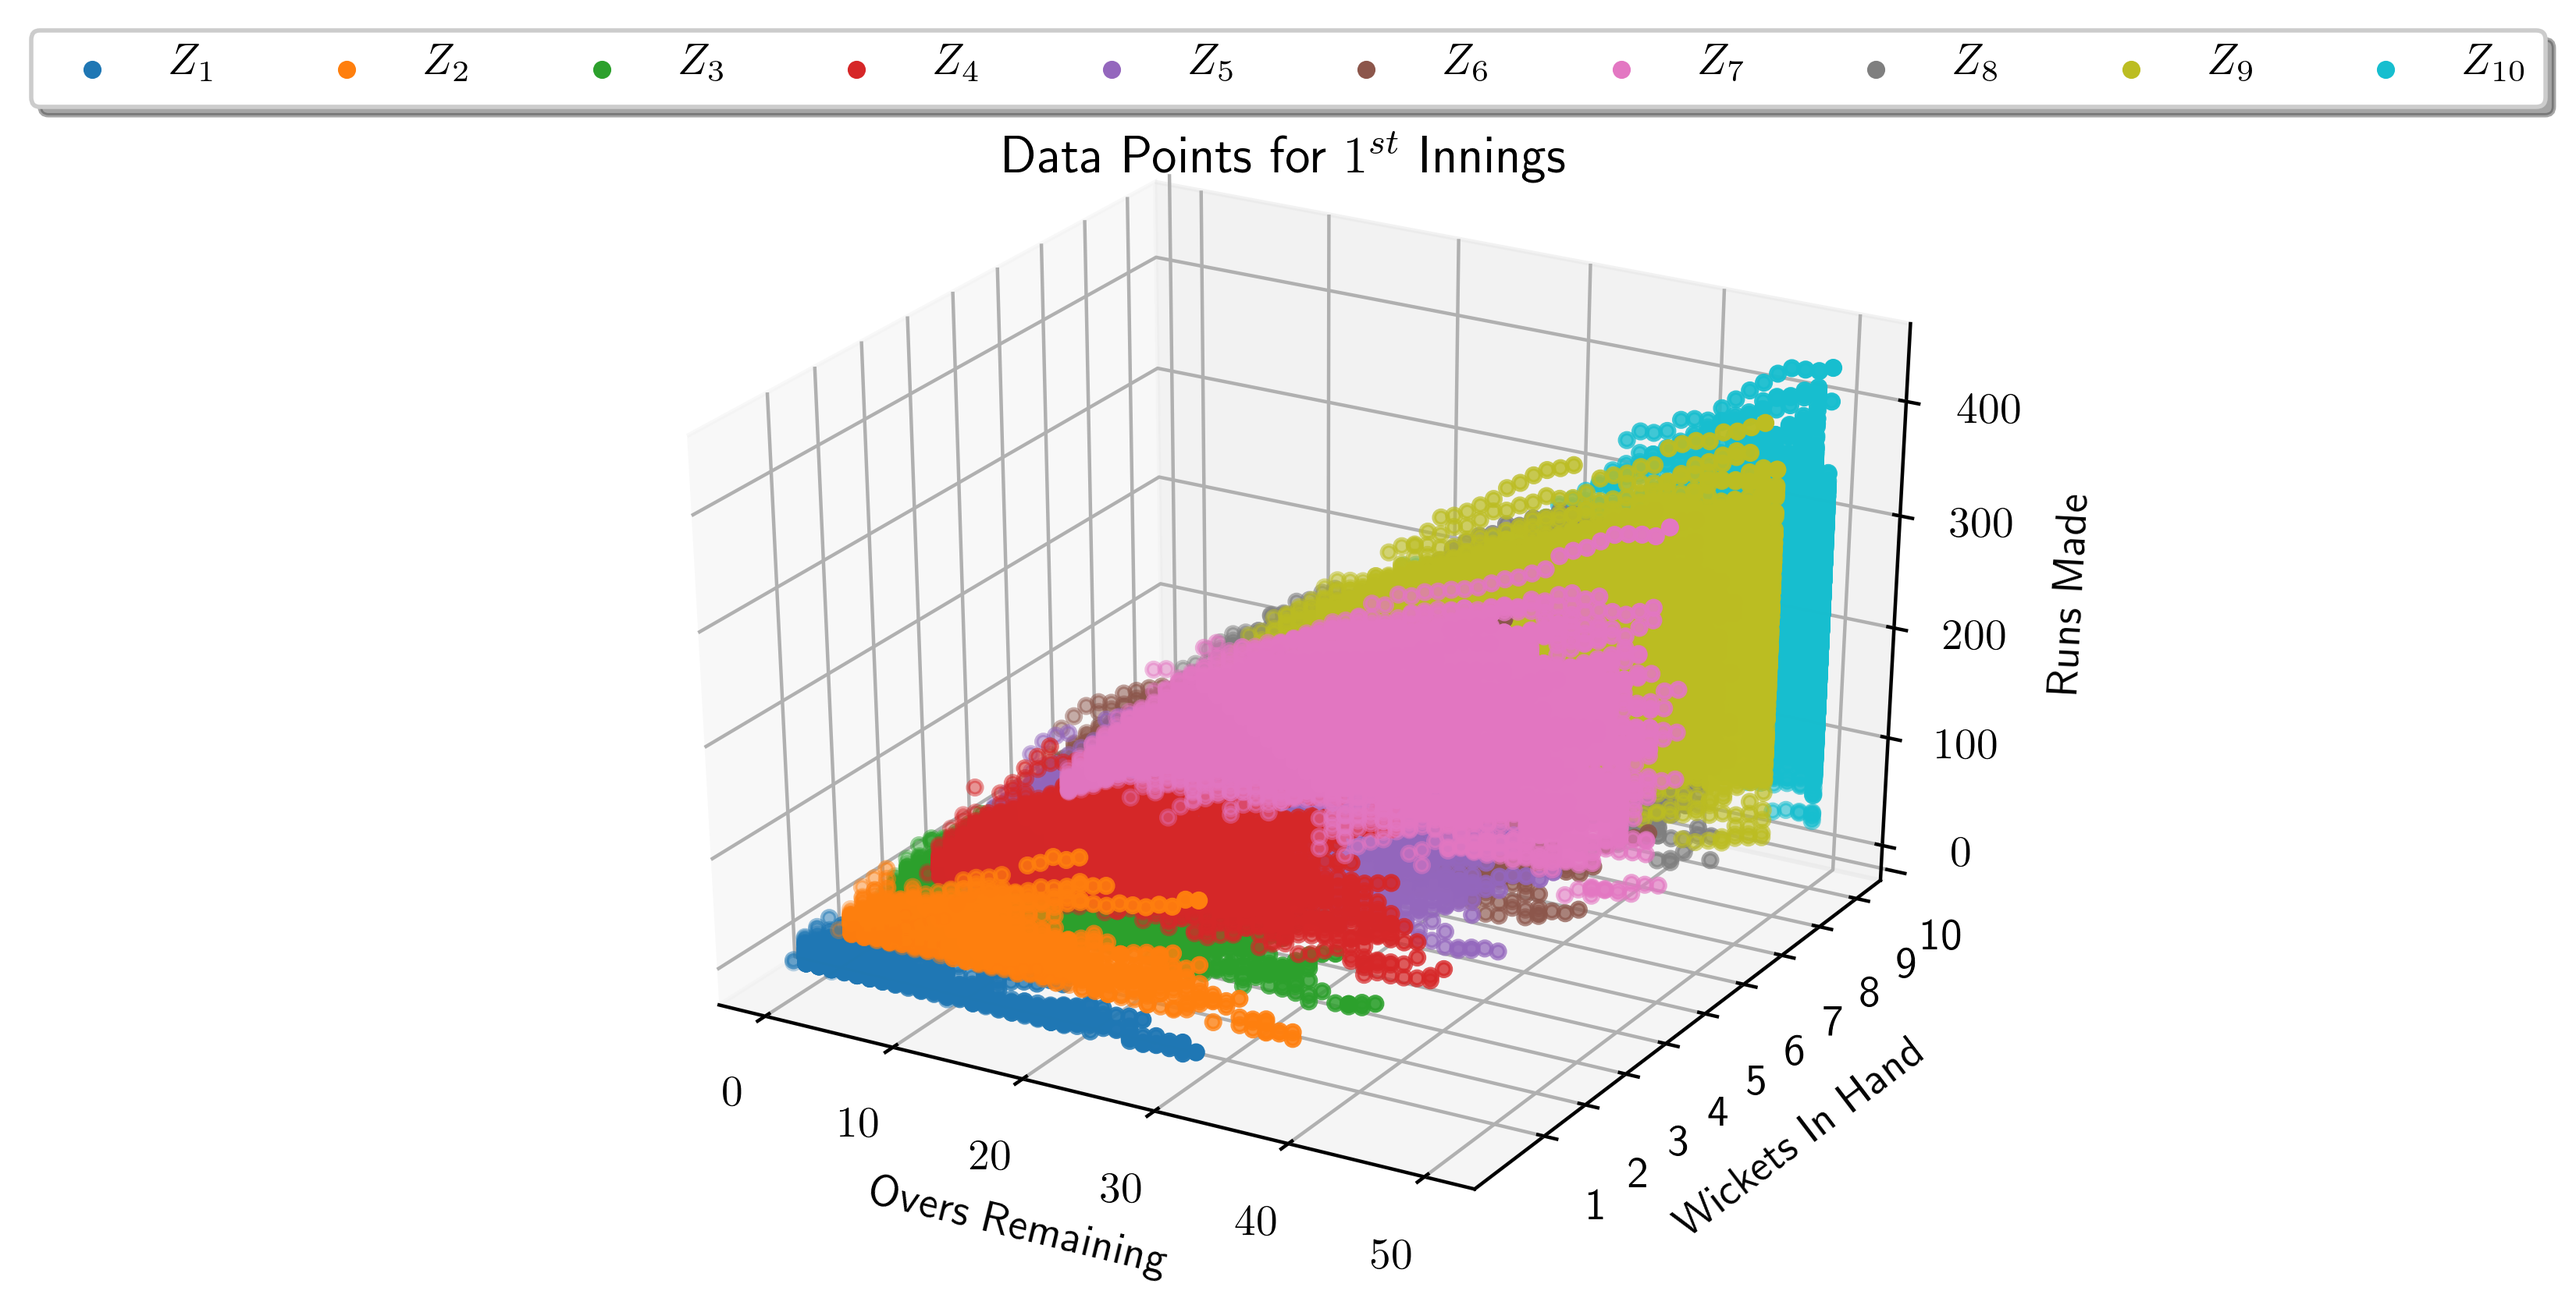
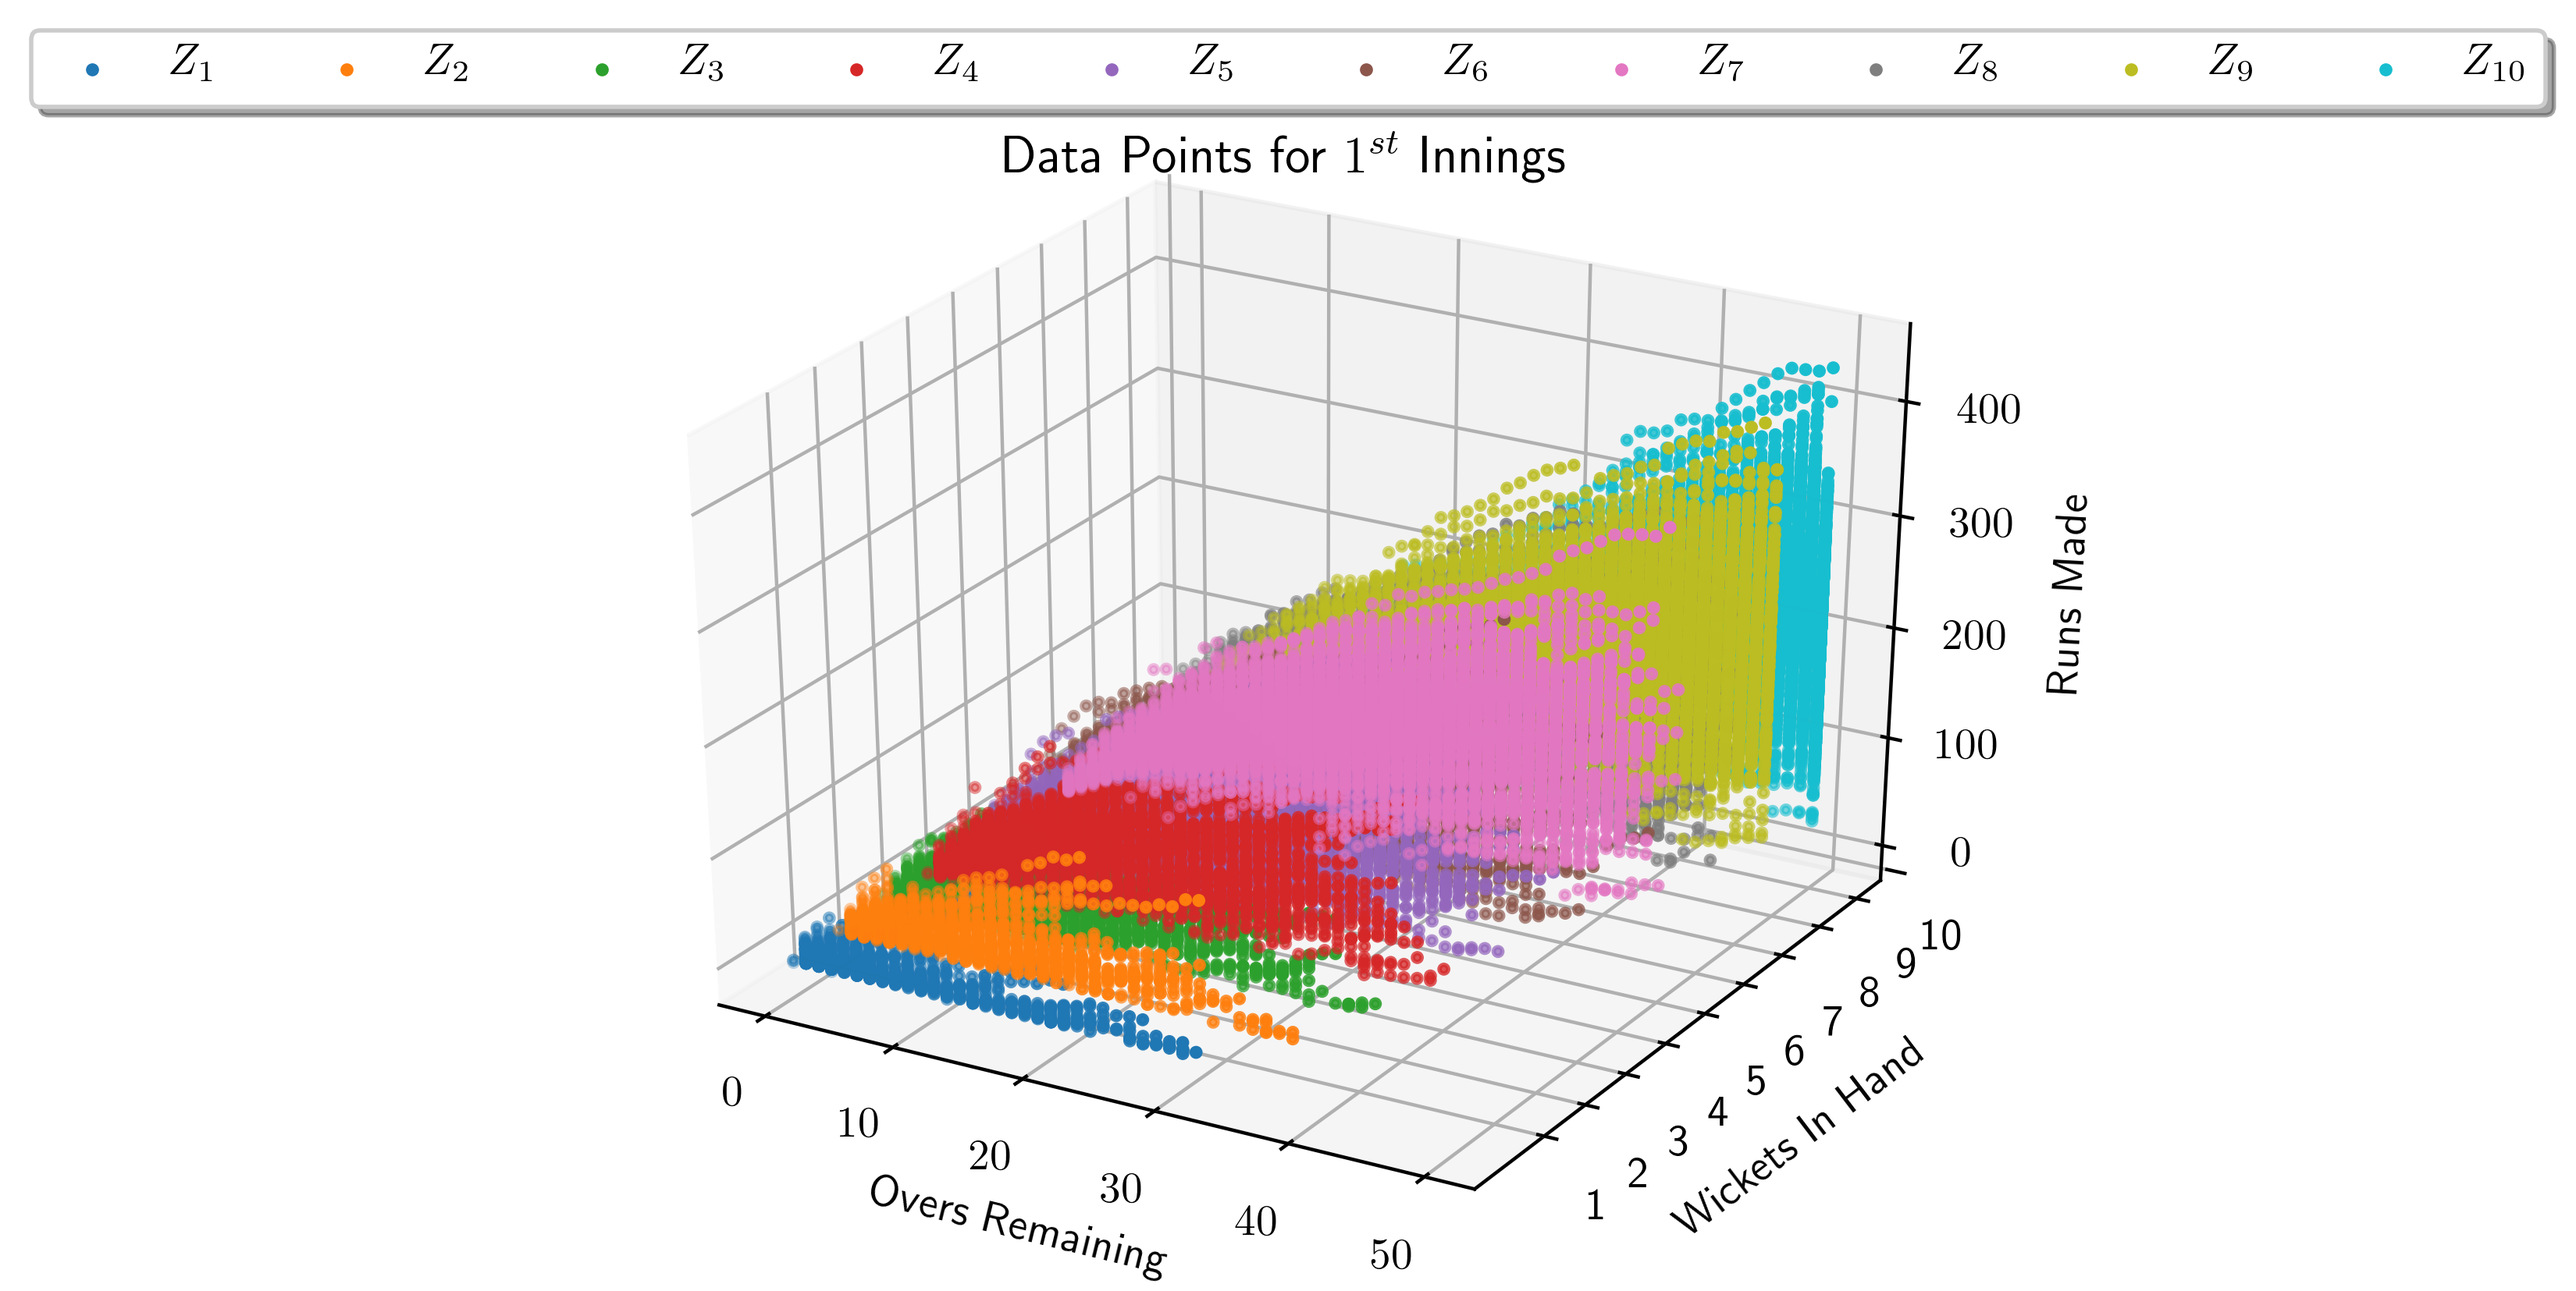
Report Left

Changed region(s): [[0.3121, 0.2773, 0.7179, 0.832]]

diff --git a/mod1 - DL (Duckworth-Lewis)/main.py b/mod1 - DL (Duckworth-Lewis)/main.py
@@ -8,6 +8,7 @@ import numpy as np, pandas as pd
 from mpl_toolkits.mplot3d import Axes3D
 import matplotlib as mpl
 import matplotlib.pyplot as plt
+import matplotlib.animation as animation
 from matplotlib import rc
 rc('text', usetex=True)
 from matplotlib.ticker import StrMethodFormatter
@@ -44,8 +45,8 @@ get_custom_objects().update({'sse': sum_squared_error})
 
 
 # Flag for taking data for 50 overs remaining, using Innings Total
-before_first_over_mode  = False
-plot_initial_data       = False
+before_first_over_mode  = True
+plot_initial_data       = True
 call_consistent         = False
 use_consistent          = False
 if call_consistent:
@@ -219,11 +220,31 @@ def proj_tsv(frctn = 0.2,size=1,mode='2d'):
 	plt.title(title)
 	plt.grid(True)
 	plt.savefig('{} {}.PNG'.format(title2,mode),dpi=400,bbox_inches='tight',format='PNG')
-	plt.show()
+	# plt.show()
+
+	# Saving Animated GIF Image
+	if mode=='3d':
+		ax.legend().set_visible(False)
+		plt.legend(bbox_to_anchor=(0.5,1), loc="lower center", ncol=len(proj_points)//2,
+		borderaxespad=0,fancybox=True,shadow=True)
+		start_angle = 90
+		def init_func(angle=start_angle):
+			print('Converting for Angle',angle)
+			ax.view_init(azim=angle)
+		def rtt(angle):
+			angle = (angle+start_angle)%360
+			print('Converting for Angle',angle)
+			ax.view_init(azim=angle)
+		rot_animation = animation.FuncAnimation(fig=fig, func=rtt, init_func=init_func,
+			frames=np.arange(0, 180+1, 1), interval=50)
+		rot_animation.save('{} {}.GIF'.format(title2,mode), dpi=300, writer='imagemagick')
+
+	
 
 if plot_initial_data:
-	proj_tsv(1,10,'3d')
-	proj_tsv(1,10,'2d')
+	# proj_tsv(1,10,'2d')
+	proj_tsv(1,4,'3d')
+	
 
 'Writing & Projection Data Section Ends'
 
@@ -244,12 +265,12 @@ def NN_feed_postprocess_data(dict_form_data):
 
 def init_Z(shape):
 	global Z_init
-	Z_init = K.variable(mat_data.mean(axis=0)[...,np.newaxis])
+	Z_init = K.variable(mat_data.max(axis=0)[...,np.newaxis])
 	return Z_init
 
 def init_L(shape):
 	global L_init
-	L_init = K.variable(np.array([5,])[...,np.newaxis])
+	L_init = K.variable(np.array([0,])[...,np.newaxis])
 	return L_init
 
 def DL_model(*shapes):
@@ -294,7 +315,8 @@ def fit_plot(dl_model,approach = 'mean'):
 	plt.grid(True)
 	plt.legend(fancybox=True,shadow=True)
 	plt.savefig('{} {}.PNG'.format(title2,approach),dpi=400,bbox_inches='tight',format='PNG')
-	plt.show()
+	# plt.show()
+	plt.close()
 
 def dl_process(dl_model=None, approach = 'mean',epochs=10**3,factor=(1/3),batch_size=32,
 	loss='mse',opt='Adam',lr=0.001,decay=0.0,momentum=0.9,nesterov=True,RLRoP=True):
@@ -315,7 +337,7 @@ def dl_process(dl_model=None, approach = 'mean',epochs=10**3,factor=(1/3),batch_
 	dl_model.compile(optimizer=opt, loss=loss)
 
 	reduce_lr = keras.callbacks.ReduceLROnPlateau(monitor='loss', factor=factor,
-		patience=10, verbose=1, mode='auto', min_delta=0.001, cooldown=0, min_lr=0)
+		patience=10, verbose=1, mode='auto', min_delta=0.1, cooldown=0, min_lr=0)
 
 	if approach=='mean':
 		history = dl_model.fit(x=x_train,y=y_train,epochs=epochs,
@@ -356,11 +378,10 @@ def dl_process(dl_model=None, approach = 'mean',epochs=10**3,factor=(1/3),batch_
 		print('Z array  is\n{}'.format(' '.join(tuple(map(str,wts[0].T[0])))) ,file=f)
 		
 		print(' SSE Loss using Approach {} is {:.2f}'.format(approach,loss) ,file=f)
-		print('RMSE Loss using Approach {} is {:.2f}'.format(
+		print('RMSE Loss using Approach {} is {:.2f}\n'.format(
 			approach,np.sqrt(loss/y_pred_r.shape[0])) ,file=f)
-	fit_plot(dl_model)
+	fit_plot(dl_model, approach = approach)
 	return dl_model
-
 
 'Data Encoding & Keras Model Section Ends'
 
@@ -372,14 +393,18 @@ def dl_process(dl_model=None, approach = 'mean',epochs=10**3,factor=(1/3),batch_
 
 better_precision()
 
-m1 = dl_process(approach = 'sep_data',epochs=2*10**2,factor=0.99,batch_size=4096,
-	loss='sse',opt='Adam',lr=0.01,decay=0.0,momentum=0.9,nesterov=True,RLRoP=True)
-
-m2 = dl_process(approach = 'sliced_data',epochs=1*10**1,factor=0.99,batch_size=32,
-	loss='sse',opt='Adam',lr=0.01,decay=0.0,momentum=0.9,nesterov=True,RLRoP=True)
-
-m3 = dl_process(approach = 'mean',epochs=5*10**3,factor=0.99,batch_size=64,
-	loss='sse',opt='Adam',lr=0.1,decay=0.0,momentum=0.9,nesterov=True,RLRoP=True)
-
 with open('results.txt','a') as f:
 	print('Total Data Points',mat_count.sum(),end='\n\n',file=f)
+
+
+# m1 = dl_process(approach = 'mean',       epochs=2*10**3,factor=0.3,batch_size=64,
+# 	loss='mse',opt='Adam',lr=0.01,decay=0.0,momentum=0.9,nesterov=True,RLRoP=True)
+
+
+# m2 = dl_process(approach = 'sep_data',   epochs=1*10**2,factor=0.3,batch_size=64,
+# 	loss='mse',opt='Adam',lr=0.01,decay=0.0,momentum=0.9,nesterov=True,RLRoP=True)
+
+# m3 = dl_process(approach = 'sliced_data',epochs=1*10**1,factor=0.99,batch_size=64,
+# 	loss='mse',opt='Adam',lr=0.01,decay=0.0,momentum=0.9,nesterov=True,RLRoP=True)
+
+
